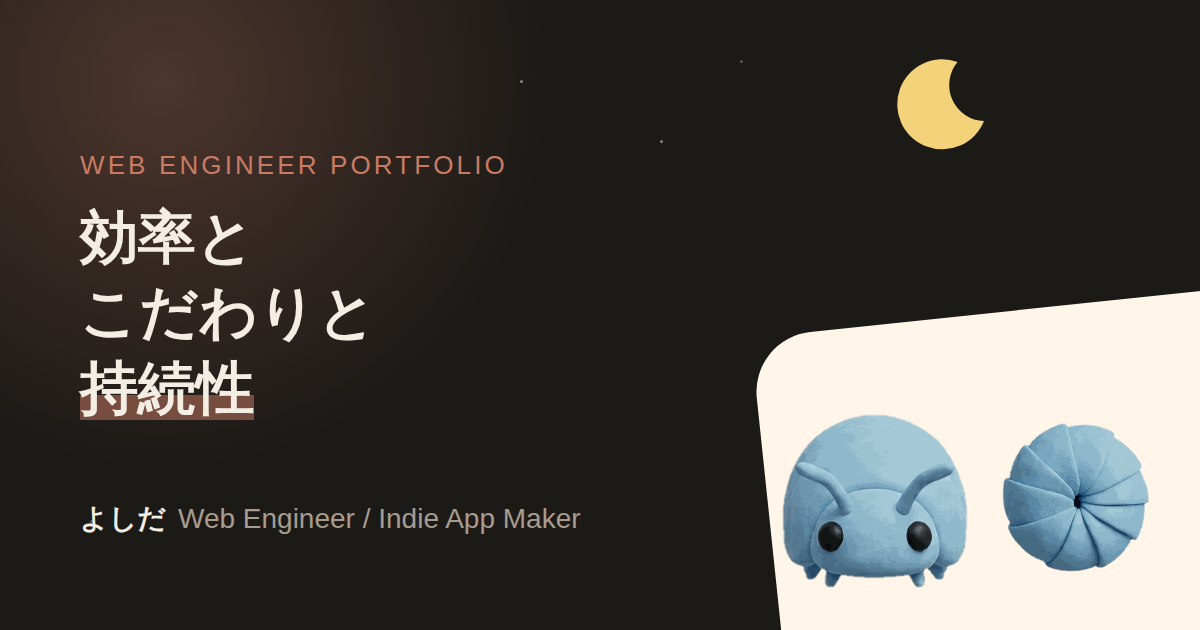
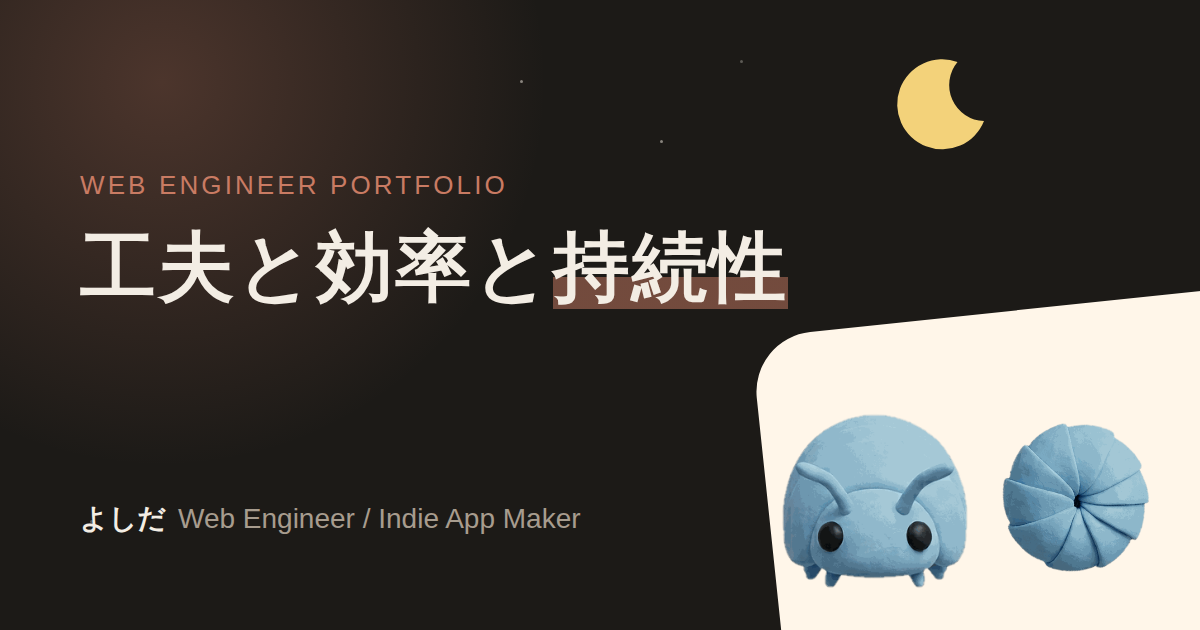
キャッチコピーを1行の「工夫と効率と持続性」に・Career の見出しを Skills/Certs と同じ左寄せにそろえ写真は右へ・カード画像を更新
Claude-Session: https://claude.ai/code/session_014k3tBBSKzyyYGJKFv4MMm4

Changed region(s): [[0.0617, 0.2413, 0.6783, 0.5429], [0.0617, 0.573, 0.2158, 0.6937]]

diff --git a/index.html b/index.html
@@ -12,7 +12,7 @@
 <meta property="og:type" content="website">
 <meta property="og:site_name" content="よしだ | エンジニアポートフォリオ">
 <meta property="og:title" content="よしだ | エンジニアポートフォリオ">
-<meta property="og:description" content="効率とこだわりと持続性。Webエンジニア よしだのポートフォリオ。">
+<meta property="og:description" content="工夫と効率と持続性。Webエンジニア よしだのポートフォリオ。">
 <meta property="og:url" content="https://shake0828ram2808.github.io/yoshidam/">
 <meta property="og:image" content="https://shake0828ram2808.github.io/yoshidam/assets/images/og-image.png">
 <meta property="og:image:width" content="1200">
@@ -92,9 +92,7 @@
     <div class="hero-inner">
       <p class="hero-eyebrow">Web Engineer / Indie App Maker</p>
       <h1 class="hero-title">
-        <span class="hero-line" style="--d:0">効率と</span>
-        <span class="hero-line" style="--d:1">こだわりと</span>
-        <span class="hero-line" style="--d:2"><em class="hero-em">持続性</em></span>
+        <span class="hero-line" style="--d:0">工夫と</span><span class="hero-line" style="--d:1">効率と</span><span class="hero-line" style="--d:2"><em class="hero-em">持続性</em></span>
       </h1>
       <p class="hero-lead">
         Webアプリケーションエンジニア。<br class="br-pc">業務では、教師や児童生徒向けのwebサービスの開発運用をしています。<br class="br-pc">

diff --git a/styles.css b/styles.css
@@ -2884,3 +2884,23 @@ h1, h2, h3, h4, .hero-title, .btn, .main-nav a{ font-feature-settings: "palt"; }
   html.at-hero .section-dock{ transform: translateY(140%); opacity: 0; pointer-events: none; }
   html.at-hero .dock-next{ opacity: 0; transform: translateY(10px) scale(.92); pointer-events: none; }
 }
+
+/* キャッチコピーは1行で見せる(「工夫と」「効率と」「持続性」が順に浮かび上がる) */
+.hero-title{ white-space: nowrap; font-size: clamp(2rem, 8.4vw, 5.2rem); letter-spacing: .03em; }
+.hero-title .hero-line{ display: inline-block; }
+@media (max-width: 560px){
+  .hero-title{ font-size: min(8.4vw, 2.6rem); }
+}
+
+/* About: Career の見出しも Skills・Certs と同じ左の位置にそろえ、写真は右に置く */
+.about .about-grid{ grid-template-columns: 1fr auto; gap: 24px; align-items: end; }
+.about .about-grid .about-photo{ order: 2; }
+.about .about-grid .about-body{ order: 1; }
+.about .about-grid .about-photo img{ width: 112px; height: 112px; }
+@media (max-width: 760px){
+  .about .about-grid{ grid-template-columns: 1fr auto; gap: 16px; justify-items: stretch; }
+  .about .about-grid .about-photo img{ width: 84px; height: 84px; }
+}
+@media (max-width: 560px){
+  .about .about-grid{ text-align: left; }
+}
